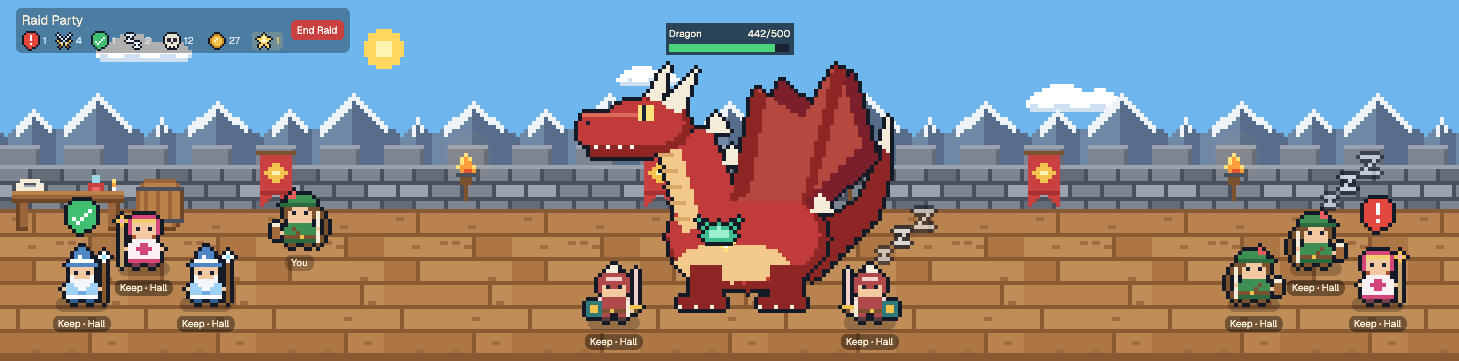
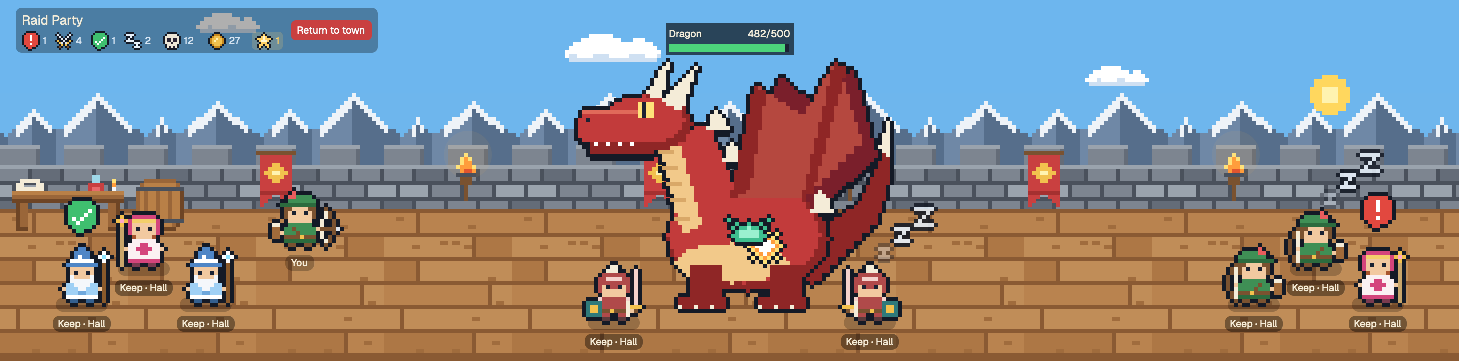
feat(idle-rpg): outline hovered stations in white and rename the raid button
The gold frame around a hovered station looked pasted on. A station
under the pointer now wears a white pixel outline, drawn by the sprite
generator like the rest of the scene, with a white arrow over it.

The button that ends a raid now reads "Return to town", which is where
it takes you: the screen with the stations. The preview and the GIF are
re-recorded with it.

diff --git a/idle-rpg/mods/idle-rpg/main.js b/idle-rpg/mods/idle-rpg/main.js
@@ -12,7 +12,7 @@
 // and drag an agent: it dangles from the
 // pointer; let go to drop it where it is (it falls to the floor). Spots and
 // classes are remembered.
-// Battle mode (the Start Raid / End Raid button by the sign): a random monster stands in the middle
+// Battle mode (the Start Raid / Return to town button by the sign): a random monster stands in the middle
 // (a slime has 100 HP, an ogre 300, a dragon 500) and the party forms up
 // around it, warriors up close and everyone else at range. Every working agent
 // attacks in its own way (sword swing, arrow, fireball, thrown potion) on its
@@ -1434,7 +1434,7 @@ export default class RaidParty extends View {
                 this.wake(cx);
                 cx.notify();
               })
-              .child(this.battle ? "End Raid" : "Start Raid"),
+              .child(this.battle ? "Return to town" : "Start Raid"),
           ),
       )
       .child(floor)
@@ -1470,9 +1470,11 @@ export default class RaidParty extends View {
   stations() {
     const spare = CLASSES.reduce((sum, c) => sum + pointsLeft(this.progress, c), 0);
     // Under the pointer a station shows it can be used, plainly enough for
-    // broad daylight: a gold frame and glow around it, a gold arrow bobbing
-    // over it, its picture hopping up a pixel of art, and its name on gold.
-    const station = (id, left, top, w, h, name, act, ...inside) => {
+    // broad daylight and in the scene's own style: its picture gains a white
+    // pixel outline (the "-hot" pictures) and hops up a pixel of art, a white
+    // arrow bobs over it, and its name goes white on a darker pill.
+    // `inside(hot)` is what hops; `still(hot)` stays put behind it
+    const station = (id, left, top, w, h, name, act, inside, still = () => []) => {
       const hot = this.hot === id;
       return div()
         .id(`idle-rpg-station-${id}`)
@@ -1481,10 +1483,6 @@ export default class RaidParty extends View {
         .top(top)
         .w(w)
         .h(h)
-        .rounded(8)
-        .border(2)
-        .border_color(hot ? GOLD : "#ffd16600")
-        .bg(hot ? "#ffd16640" : "#ffd16600")
         .cursor_pointer()
         .on_hover((hovered, cx) => {
           if (hovered) this.hot = id;
@@ -1496,6 +1494,7 @@ export default class RaidParty extends View {
           act();
           cx.notify();
         })
+        .children(still(hot))
         .child(
           div()
             .id(`idle-rpg-station-${id}-art`)
@@ -1503,7 +1502,7 @@ export default class RaidParty extends View {
             .left(0)
             .top(hot ? -4 : 0)
             .transition("top", { duration: 120, easing: "ease-out" })
-            .children(inside),
+            .children(inside(hot)),
         )
         .child(
           h_flex()
@@ -1516,10 +1515,10 @@ export default class RaidParty extends View {
               div()
                 .px(5)
                 .rounded(7)
-                .bg(hot ? GOLD : "#00000066")
+                .bg(hot ? "#000000b8" : "#00000066")
                 .text_size(10)
                 .font_semibold()
-                .text_color(hot ? "#2a1a0c" : CREAM)
+                .text_color(hot ? "#ffffff" : CREAM)
                 .child(name),
             ),
         )
@@ -1534,15 +1533,26 @@ export default class RaidParty extends View {
           ),
         );
     };
-    const art = (name, w, h, left = 0, top = 0) =>
+    // a picture, or under the pointer its outlined twin, a pixel of art (4px) bigger on every side
+    const art = (name, hot, w, h, left = 0, top = 0) =>
       div()
         .absolute()
-        .left(left)
-        .top(top)
-        .child(image(`${ART}/${name}.png`).w(w).h(h));
+        .left(hot ? left - 4 : left)
+        .top(hot ? top - 4 : top)
+        .child(image(`${ART}/${name}${hot ? "-hot" : ""}.png`).w(hot ? w + 8 : w).h(hot ? h + 8 : h));
     return [
       // over the table that is always there, with the book lying on it
-      station("codex", 12, -34, 112, 56, "Codex", () => this.openCodex(!this.codex), art("book", 32, 24, 36, -8)),
+      station(
+        "codex",
+        12,
+        -34,
+        112,
+        56,
+        "Codex",
+        () => this.openCodex(!this.codex),
+        (hot) => [art("book", hot, 32, 24, 36, -8)],
+        (hot) => (hot ? [art("table", true, 112, 56)] : []), // outlined over the table that is always there
+      ),
       station(
         "skills",
         204,
@@ -1551,9 +1561,9 @@ export default class RaidParty extends View {
         72,
         spare > 0 ? `Skills +${spare}` : "Skills",
         () => this.openSkills(this.skillsOpen ? null : (CLASSES.find((c) => pointsLeft(this.progress, c) > 0) ?? this.sprites[YOU])),
-        art("dummy", 48, 72),
+        (hot) => [art("dummy", hot, 48, 72)],
       ),
-      station("shop", 304, -64, 104, 84, "Shop", () => this.openShop(this.shopOpen ? null : this.sprites[YOU]), art("stall", 104, 84)),
+      station("shop", 304, -64, 104, 84, "Shop", () => this.openShop(this.shopOpen ? null : this.sprites[YOU]), (hot) => [art("stall", hot, 104, 84)]),
     ];
   }
 

diff --git a/tools/idle-rpg-sprites.py b/tools/idle-rpg-sprites.py
@@ -317,7 +317,7 @@ save("banner.png", chars([
     ".rr....rr.",
     ".r......r.",
 ], {"b": "#7a5230", "r": "#c94040", "R": "#a53030", "g": "#f2c14e", "w": "#fff3b0"}))
-save("table.png", chars([
+TABLE = chars([
     "....................gg......",
     "..ccccc.............gg...y..",
     ".cc...cc...........pppp..o..",
@@ -333,17 +333,38 @@ save("table.png", chars([
     ".dtt....................ttd.",
     ".ddd....................ddd.",
 ], {"c": "#f4ecd8", "g": "#9fd8e8", "p": "#c94040", "P": "#e86a6a", "y": "#ffe27a", "o": "#ff9d3c", "w": "#f4f7fb",
-    "T": "#b98047", "t": "#9a6639", "d": "#6e4525"}))
+    "T": "#b98047", "t": "#9a6639", "d": "#6e4525"})
+save("table.png", TABLE)
 # ---- Stations, on the rampart between raids: each opens one of the panels ----
-save("book.png", chars([                                # the codex, lying on the table
+# Each also comes as "<name>-hot": the same picture inside a one-pixel white
+# outline (so one art pixel bigger on every side), shown under the pointer.
+def lit(g):
+    h, w = len(g), len(g[0])
+    big = [[None] * (w + 2) for _ in range(h + 2)]
+    for y in range(h):
+        for x in range(w): big[y + 1][x + 1] = g[y][x]
+    o = [r[:] for r in big]
+    for y in range(h + 2):
+        for x in range(w + 2):
+            if big[y][x] is None and any(0 <= y+j < h+2 and 0 <= x+i < w+2 and big[y+j][x+i] for i, j in ((1,0),(-1,0),(0,1),(0,-1))):
+                o[y][x] = "#ffffff"
+    return o
+
+def station(name, rows, pal):
+    g = chars(rows, pal)
+    save(name + ".png", g)
+    save(name + "-hot.png", lit(g))
+
+save("table-hot.png", lit(TABLE))                 # the codex is the whole table, and the book on it
+station("book", [                                # the codex, lying on the table
     ".bbbbbb.",
     "bBBBBBBb",
     "bBBggBBb",
     "bBBggBBb",
     "bBBBBBBb",
     "wwwwwwwb",
-], {"b": "#3b2a6b", "B": "#6b4fbf", "g": "#f2c14e", "w": "#f4ecd8"}))
-save("stall.png", chars([                               # the shop: a merchant's stall
+], {"b": "#3b2a6b", "B": "#6b4fbf", "g": "#f2c14e", "w": "#f4ecd8"})
+station("stall", [                               # the shop: a merchant's stall
     "..rrwwrrwwrrwwrrwwrrwwrr..",
     ".rrwwrrwwrrwwrrwwrrwwrrww.",
     "rrwwrrwwrrwwrrwwrrwwrrwwrr",
@@ -366,8 +387,8 @@ save("stall.png", chars([                               # the shop: a merchant's
     ".dtTttTttTttTttTttTttTttd.",
     ".dddddddddddddddddddddddd.",
 ], {"r": "#c94040", "R": "#a53030", "w": "#f4ecd8", "W": "#d8cfb8", "g": "#c8891e", "G": "#f2c14e", "p": "#3f8fd0", "P": "#9fd8e8",
-    "y": "#3fbf6f", "Y": "#9be6b4", "T": "#b98047", "t": "#9a6639", "d": "#6e4525"}))
-save("dummy.png", chars([                               # the skills: a straw training dummy
+    "y": "#3fbf6f", "Y": "#9be6b4", "T": "#b98047", "t": "#9a6639", "d": "#6e4525"})
+station("dummy", [                               # the skills: a straw training dummy
     "....ssss....",
     "...sSSSSs...",
     "...sSSSSs...",
@@ -386,7 +407,7 @@ save("dummy.png", chars([                               # the skills: a straw tr
     ".....bb.....",
     "...bbbbbb...",
     "..bbbbbbbb..",
-], {"s": "#b89a62", "S": "#d9c08a", "b": "#7a5230", "y": "#c9a03c", "Y": "#e6c766", "r": "#c94040", "w": "#f4ecd8"}))
+], {"s": "#b89a62", "S": "#d9c08a", "b": "#7a5230", "y": "#c9a03c", "Y": "#e6c766", "r": "#c94040", "w": "#f4ecd8"})
 save("barrel.png", chars([
     "..tttttttt..",
     ".tTTTTTTTTt.",
@@ -517,7 +538,7 @@ icon("i-skull.png", [                                   # slain
     ".wwwww.",
     ".wkwkw.",
 ], {"w": "#ece6d6", "k": "#2a2433"})
-icon("arrow.png", ["ggggg", ".ggg.", "..g.."], {"g": "#ffd166"})  # bobs over the station under the pointer
+icon("arrow.png", ["wwwww", ".www.", "..w.."], {"w": "#ffffff"})  # bobs over the station under the pointer
 icon("i-armour.png", [                                  # the shop's armours
     "aa...aa",
     "aAaaaAa",

diff --git a/idle-rpg/RECIPE.md b/idle-rpg/RECIPE.md
@@ -31,8 +31,8 @@ A castle rampart across the top of the window, in pixel art, staffed by a small 
 - **Click an agent:** a card opens above it, or beside it when there is no room: a 56px portrait (the sprite at 6px a pixel, cropped to the head), the same "space · tab" name as its title, the kind of agent (program name), status and for how long, terminal title, a "Go to terminal" button (`agent.focus`) and a close button. Under the portrait, one 10px line for the agent's class: the class name, "Lv n" in gold `#ffd166`, a 5px gold bar filling with the way to the next level, "into/need" experience, and, when the class has skill points to spend, the gold star and their number. The line highlights on hover; clicking it opens the skills panel on that class and closes the card. A small wrench in the portrait's top-right corner toggles a row of the four classes (the current one ringed), each with its own "Lv n" under the sprite; picking one changes the sprite, saves it and hides the row. Clicking the agent again closes the card.
 - **Click yourself:** a smaller card with your portrait, class name and the same wrench, and two level lines: "You" (your own level) above your class's.
 - **Drag an agent:** after 4px of movement it becomes a dangling sprite that leans against the direction of travel. Releasing drops it; released over the wall, it falls to the floor.
-- **Stations:** on the non-raid screen only (battle mode off) three things stand at the back of the floor, each opening one of the panels the sign's chips open during a raid, and closing it when clicked again: the **codex** is a purple book lying on the table (the whole table is the target); the **skills** are a straw training dummy with a target on its chest (48×72, left 204), whose label reads "Skills +N" while N points are waiting to be spent; the **shop** is a merchant's stall with a red and cream striped awning and goods on its counter (104×84, left 304). Each has its name under it on the same dark pill as an agent's, and a press on one does not reach the floor. Under the pointer a station shows it can be used: a 2px gold frame (`#ffd166`) with a gold glow inside it (`#ffd16640`), a gold arrow (`arrow`, 28×20) bobbing 8px over it, its picture hopping up 4px (120ms; for the codex, the book), its name in dark text on a gold pill, and a pointer cursor. It has to show in broad daylight as well as at night. They are props, drawn before the characters and dimmed with them at night, and are not drawn during a raid, when the formation needs the floor.
-- **Battle mode:** a button in the sign toggles it (red "End Raid" while it is on, grey "Start Raid" while it is off; saved; on by default). When on:
+- **Stations:** on the non-raid screen only (battle mode off) three things stand at the back of the floor, each opening one of the panels the sign's chips open during a raid, and closing it when clicked again: the **codex** is a purple book lying on the table (the whole table is the target); the **skills** are a straw training dummy with a target on its chest (48×72, left 204), whose label reads "Skills +N" while N points are waiting to be spent; the **shop** is a merchant's stall with a red and cream striped awning and goods on its counter (104×84, left 304). Each has its name under it on the same dark pill as an agent's, and a press on one does not reach the floor. Under the pointer a station shows it can be used: its picture swapped for its `-hot` twin, the same picture inside a one-pixel white outline (4px on screen; for the codex, both the table and the book), hopping up 4px (120ms; for the codex only the book hops), a white arrow (`arrow`, 28×20) bobbing 8px over it, its name in white on a darker pill, and a pointer cursor. It has to show in broad daylight as well as at night, in the scene's own pixel style rather than a coloured frame. They are props, drawn before the characters and dimmed with them at night, and are not drawn during a raid, when the formation needs the floor.
+- **Battle mode:** a button in the sign toggles it (red "Return to town" while it is on, grey "Start Raid" while it is off; saved; on by default). When on:
   - **Monster:** one stands in the middle of the floor, feet at floor y 108: a slime (136×104, 100 HP), an ogre (200×200, 300 HP) or a dragon (328×264, 500 HP), with a name plate above it (name, `hp/maxHp`, a 120px bar that is green above half, yellow above a fifth, red below, its width eased over 150ms). Each is a still picture with pieces that move over or behind it on native `top` loops, so nothing shows through: the slime's dome (`-top`) sinks 8px into its foot (`-base`) and rises (1.7s); the dragon's tail (`-tail`) sways 5px behind its body (`-body`, 2.6s); the ogre and the dragon breathe, their upper body (`-top`: head, shoulders and arms, or head, neck and wings) rising 3px while the feet stay planted. Every 14 seconds the ogre shows its roar frame (`-2`) for 1.1s. All blink every 5.2s (an eyelid overlay for 170ms), and hop 4px when a blow lands.
   - **Formation:** every agent glides (700ms) from its own spot to a place computed from its class: warriors 44px outside the monster's bulk (the `half` width in its `core`, not the edge of its picture, so they stand under a dragon's head and tail) and just in front of it at floor y 114, everyone else 360px out from the picture's edge (five characters; less on a narrow scene), alternating left and right, each next one on a side 62px further out and staggered between floor y 96 and 60. Turning battle off glides them back. Agents cannot be dragged while in formation.
   - **Attacks:** each working agent attacks on its own rhythm, playing each attack in phases of 250ms (`TICK_STEP`): wind-up, two of strike or flight, impact, then rest. Its damage (below) comes off at the moment of its own impact, so the bar moves with each blow. The time from the start of one of a character's attacks to the start of its next is set by its class's Haste: 12 ticks (3s) at rank 0, one tick less per rank, 7 ticks (1.75s) at rank 5 (`ATTACK_TICKS`). Attackers do not move as one: someone who joins the fight (starts working, comes into reach, or a new monster turns up) makes their first attack at a random tick within their first gap, and each gap after that is the rank's give or take up to 2 ticks at random (`ATTACK_JITTER`), evenly, so the average is the rank's and characters on one rank drift in and out of step. No gap is shorter than 6 ticks (`MIN_ATTACK_TICKS`): the four phases, the rest, and the 350ms the impact takes to fade, so a character never starts an attack before its last one is gone. Blows land around the middle of the monster's bulk (`core` in `MONSTERS`: an offset from its centre line and feet, and a radius), scattered by a hash of the attacker's address and the tick its attack started, so nothing flies through the empty corners of a big sprite and each attack lands somewhere a little different. In formation every sprite is a 96×72 fighting pose facing the monster (`<class>-f|a1|a2-l|r.png`): stance, wind-up on phase 1, strike on phases 2 and 3. Warrior: raises its own sword, swings it level at full reach, and a white slash pops in at the tip and fades. Archer: draws with an arrow nocked, looses; the arrow flies to the monster in 500ms, then a spark. Wizard: raises its staff, thrusts it out; a fireball flies, then a burst. Healer (drawn mirrored so the free hand faces the monster): holds a potion up, flings its arm out; the potion is lobbed in an arc (up 44px for the first half of the flight, down for the second), then a green splash. Projectiles are hidden at the hand, shown only while flying, and slip back unseen. A working agent in formation shows no swords overhead and does not bounce.
@@ -62,7 +62,7 @@ A castle rampart across the top of the window, in pixel art, staffed by a small 
 - `herdr` functions: `agents`, `spaces`, `shared` / `setShared` (key `idle-rpg.state`, read back from the layout's older keys `raid-party.state`, `rpg.state` and `snow-loft.state` if missing), `props`, `run("agent.focus")`.
 - **Saved state** (version 3): `{ version, you: {x, y}, spots: { <address>: {x, y} }, sprites: { you | <address>: <class> }, seen: { <address>: ms }, battle, monster: { kind, hp, maxHp, id, slainAt? } | null, slain, gold, kills: { slime, ogre, dragon }, xp: { you, wizard, healer, warrior, archer }, skills: { <class>: { power, haste, crit } }, looks: { <class>: { armour | weapon | hat: { owned: [<id>], equipped: <id> } } } }` (armours saved under their first key, `colour`, are read as `armour`). `loadState` rebuilds it from whatever was read back and never throws: state from before version 1 gets zero gold, kills and experience and a monster `maxHp` of 100; version 1 state gets every skill rank at 0 and keeps everything else; version 1 and 2 state gets every class owning and wearing only its default colourway and keeps everything else; a class's `owned` keeps only ids in its catalogue, once each, in catalogue order, always with `default`, and an `equipped` id it does not own becomes `default` (anything of the wrong type counts as missing, and only a map's own keys are read, so `__proto__` reaches nothing); a skill rank that is not a whole number from 0 to 5 becomes 0, and a class whose ranks cost more points than its level has earned gets all its ranks reset to 0 rather than trusted; a field of the wrong type falls back to its default; a negative, fractional or non-finite count becomes a whole number from 0 (capped at `Number.MAX_SAFE_INTEGER`); spots without finite `x`/`y`, unknown classes, unknown monster kinds, and unknown keys in `kills` and `xp` are dropped; a monster's HP is clamped to its `maxHp`, its `maxHp` to 1,000,000, and a `slainAt` in the future to now. State with a higher `version` than this one is read but never written (`save()` does nothing), so an older copy of the mod cannot erase what a newer one saved; progress then lasts only until the layout closes. The first of the state keys that holds an object is the one loaded.
 - gpui-kit: absolute positioning, `on_mouse_down` / `on_mouse_move` / `on_mouse_up` / `on_hover` on the root, `transition("left" | "top")` for walking and falling, `loop` and `frames` for the status animations, `cx.timer.after` to end the walk bob and to chain the attack clock's ticks.
-- `mods/idle-rpg/art/`: scenery PNGs (`wall`, `floor`, `mountains`, `stars`, `sun`, `moon`, `cloud-a`, `cloud-b`, `banner`, `torch`, `table`, `barrel`, `wrench`, and the stations `book`, `stall`, `dummy` and their `arrow`), the sign's and the shop's icons (`i-swords`, `i-sleep`, `i-skull`, `i-coin`, `i-armour`, `i-hat`, and `i-star`, a gold five-pointed star, for skill points), the night's darkness (`dark-torch`, `dark-candle`, `dark-fill`, the only pictures with see-through pixels), and per class `<class>.png`, `<class>-walk-{l,r}.png` and `<class>-rag-{c,l,r}.png` (dangling: straight, and sheared a few pixels each way), plus the fighting poses below. **Colourways:** each of those twelve pictures (`FRAMES` in `rules.js`) is drawn again in every colourway the class sells, named with the colourway's id after the class: `<class>-<id>.png`, `<class>-<id>-walk-l.png`, `<class>-<id>-f-r.png` and so on (`lookArt` in `rules.js`), while the default keeps the plain `<class>*.png` names. A colourway is the class's palette with some entries swapped (`LOOKS` in `tools/idle-rpg-sprites.py`: clothing, armour, hair and trim; never skin, eyes or the outline), applied to the same grids for the everyday sprites and the poses, so 4 classes × 3 colourways × 12 pictures add 144 files to the 99 (243 in all). The ids in `LOOKS` and in `SHOP` in `rules.js` must match (their order only matters in `rules.js`, where it sets the prices); CI checks that every picture the rules can ask for exists and that `art/` holds exactly the files the generator writes. The class sprites are stubby 16×16 pixel art (big head, short body) with a one-pixel dark outline, on an 18×18 canvas so the outline fits. They are PNGs at 8 image pixels per sprite pixel (144px), drawn at 72px so each sprite pixel is 4×4 on screen and maps 1:1 on a retina display; the dangling frames are 22×22 (176px) drawn at 88px. SVG sprites rendered soft, so use PNG. Positions are rounded to whole pixels for the same reason.
+- `mods/idle-rpg/art/`: scenery PNGs (`wall`, `floor`, `mountains`, `stars`, `sun`, `moon`, `cloud-a`, `cloud-b`, `banner`, `torch`, `table`, `barrel`, `wrench`, and the stations `book`, `stall`, `dummy`, their white-outlined `-hot` twins (and `table-hot`), and their `arrow`), the sign's and the shop's icons (`i-swords`, `i-sleep`, `i-skull`, `i-coin`, `i-armour`, `i-hat`, and `i-star`, a gold five-pointed star, for skill points), the night's darkness (`dark-torch`, `dark-candle`, `dark-fill`, the only pictures with see-through pixels), and per class `<class>.png`, `<class>-walk-{l,r}.png` and `<class>-rag-{c,l,r}.png` (dangling: straight, and sheared a few pixels each way), plus the fighting poses below. **Colourways:** each of those twelve pictures (`FRAMES` in `rules.js`) is drawn again in every colourway the class sells, named with the colourway's id after the class: `<class>-<id>.png`, `<class>-<id>-walk-l.png`, `<class>-<id>-f-r.png` and so on (`lookArt` in `rules.js`), while the default keeps the plain `<class>*.png` names. A colourway is the class's palette with some entries swapped (`LOOKS` in `tools/idle-rpg-sprites.py`: clothing, armour, hair and trim; never skin, eyes or the outline), applied to the same grids for the everyday sprites and the poses, so 4 classes × 3 colourways × 12 pictures add 144 files to the 99 (243 in all). The ids in `LOOKS` and in `SHOP` in `rules.js` must match (their order only matters in `rules.js`, where it sets the prices); CI checks that every picture the rules can ask for exists and that `art/` holds exactly the files the generator writes. The class sprites are stubby 16×16 pixel art (big head, short body) with a one-pixel dark outline, on an 18×18 canvas so the outline fits. They are PNGs at 8 image pixels per sprite pixel (144px), drawn at 72px so each sprite pixel is 4×4 on screen and maps 1:1 on a retina display; the dangling frames are 22×22 (176px) drawn at 88px. SVG sprites rendered soft, so use PNG. Positions are rounded to whole pixels for the same reason.
 - **Sky clock:** `cx.timer.every(10000)` in `init` stores `Date.now()` and re-renders; the time of day is `now % 20min`, so every window agrees. Opacities and the sun, moon and cloud positions glide with 10s linear transitions between ticks. A cloud that wraps gets a new element id so it does not glide back across the sky. `tools/idle-rpg-sprites.py` in the repo draws every PNG.
 - **Battle clock:** a watch, `cx.timer.every(1000)` in `init`, brings in a monster when one is due and starts the attack clock if anyone can attack (`attackers()`: the working agents from `agents()`, plus you if you can reach; nobody while battle mode is off, the scene is narrower than 640px or the monster is down). The toggle starts it too. The attack clock is one chain of `cx.timer.after(250)` calls, each scheduling the next, with a flag so only one chain ever runs; it counts ticks (`clock`) and stops itself on the first tick with nobody to attack, so no timer runs on between fights, and the watch starts it again (within a second). Each attacker's rhythm is kept in memory only, never saved: `{ start, next, seed }`, the tick its attack in progress started (null between attacks), the tick its next one is due, and the start of its latest, which seeds where the blow lands. On each tick, whoever is no longer attacking loses their rhythm, a newcomer gets one, anyone due starts an attack, and those on their impact phase each roll a blow (`blow(ranks, Math.random())`) and land it with `fight(blows)`. Every attacker's phase is the clock minus its start, so staggering costs no extra renders, and a tick re-renders only if someone is mid-attack (or resting after one), an attacker was cut off, or a blow changed something: ticks where everyone is between attacks draw nothing. Blinks and the ogre's roar are two more `cx.timer.every` timers that flip a flag on and off. Every motion inside a phase is a native transition (`left`/`top` for flight, `opacity` for impacts, with a 20ms fade-in and 350ms fade-out). The monster (`{ kind, hp, maxHp, id, slainAt }`), the toggle, the kill counts, gold, experience and skill ranks live in the shared state; HP and experience are saved only when a monster is slain and when the next one turns up, never on a hit: setting a shared value re-renders every mod in the window, and Power and Haste would make damage-based saves frequent. `close()` saves once more as the layout goes, so switching layouts keeps a fight in progress; a quit may not leave it the time. What a fight has earned since the last kill is lost if the app closes mid-fight. Deliberate actions still save at once: spending or resetting a skill point, buying or equipping in the shop, picking a class, the raid toggle, walking, dropping an agent, a newcomer getting its class. Monster art is drawn from ellipses and polygons, the fighting poses and attack art (`arrow`, `fireball`, `slash` in `-l`/`-r` pairs, `burst`, `potion`, `splash`) from pixel grids, all in `tools/idle-rpg-sprites.py`.
 - `themes/idle-rpg.json`.

diff --git a/README.md b/README.md
@@ -26,7 +26,7 @@ A pixel-art castle rampart across the top of the window, under a sky with drifti
 - **Click the floor** to walk there.
 - **Click an agent** for a card with its portrait, what kind of agent it is, its status and a "Go to terminal" button. Each agent is named for the space and tab it works in. The wrench on the portrait lets you pick a different class; click yourself to change your own.
 - **Drag an agent** to carry it around; release to drop it. Positions and classes are remembered.
-- **Battle mode** (the Start Raid / End Raid button by the sign, on by default): a random monster (a slime with 100 HP, an ogre with 300 or a dragon with 500) stands in the middle and the party forms up around it, warriors up close and the rest at range. Each working agent attacks on its own rhythm, every 3 seconds to begin with (faster with Haste, below), the damage coming off as the blow lands, with its own animation: the warrior swings its sword, the archer draws and shoots, the wizard thrusts its staff and throws a fireball, and the healer lobs a potion that splashes. You join in whenever the party is attacking; as a warrior you have to stand next to the monster to reach it. The monsters are alive too: they blink, the slime squashes and rises, the dragon breathes and sways its tail, and the ogre roars now and then. When the monster falls, another one turns up, and the sign counts the kill and the gold it dropped (1 gold per 100 HP: 1, 3 or 5). Turning battle mode off sends everyone back to their own spots.
+- **Battle mode** (the Start Raid / Return to town button by the sign, on by default): a random monster (a slime with 100 HP, an ogre with 300 or a dragon with 500) stands in the middle and the party forms up around it, warriors up close and the rest at range. Each working agent attacks on its own rhythm, every 3 seconds to begin with (faster with Haste, below), the damage coming off as the blow lands, with its own animation: the warrior swings its sword, the archer draws and shoots, the wizard thrusts its staff and throws a fireball, and the healer lobs a potion that splashes. You join in whenever the party is attacking; as a warrior you have to stand next to the monster to reach it. The monsters are alive too: they blink, the slime squashes and rises, the dragon breathes and sways its tail, and the ogre roars now and then. When the monster falls, another one turns up, and the sign counts the kill and the gold it dropped (1 gold per 100 HP: 1, 3 or 5). Turning battle mode off sends everyone back to their own spots.
 - **Experience and levels:** progress belongs to you and to the four classes, never to an agent. Every point of damage that lands earns experience for the attacker's class and for you, who lead the raid. Each class levels on its own, and so do you; a gold note pops up over the head of whoever levels up. Your card shows your level, and every card the level of that character's class, with progress to the next, and the class picker shows every class's level. Your own level unlocks nothing yet. Combat progress is saved each time a monster falls.
 - **Skill points:** each level a class gains earns it a skill point, spent on that class's skills, which then apply to everyone with that class on, agents and you alike. Three skills for every class, up to rank 5 each: **Power** (+1 damage a blow per rank), **Haste** (a quarter of a second less between attacks per rank, from 3s down to 1.75s) and **Crit** (+5% chance per rank of a blow dealing double damage, shown as a small gold number where it lands). A gold star on the sign shows the points you have to spend; click it, or the class line on any card, to open the skills panel, pick a class and spend them. Reset gives a class all its points back for free.
 - **The shop:** click the gold on the sign to open it. Down its left side are the kinds of item: Armours, Weapons and Hats, with more to come. Armours are colourways for a class's outfit and the only kind with anything for sale so far. Like progress, a look belongs to a class, not an agent: every character with that class on, agents and you alike, wears the colourway the class has equipped. Each class has its own colours plus three more to buy for 5, 10 and 20 gold (the wizard in Crimson, Moss or Frost, the healer in Rose, Sky or Plum, the warrior in Cobalt, Jade or Ruby, the archer in Scarlet, Azure or Dusk). Each one is shown as the sprite in that colourway; once bought it is yours for good, and you can switch between the ones you own for free. Hats and other sprites are planned.
